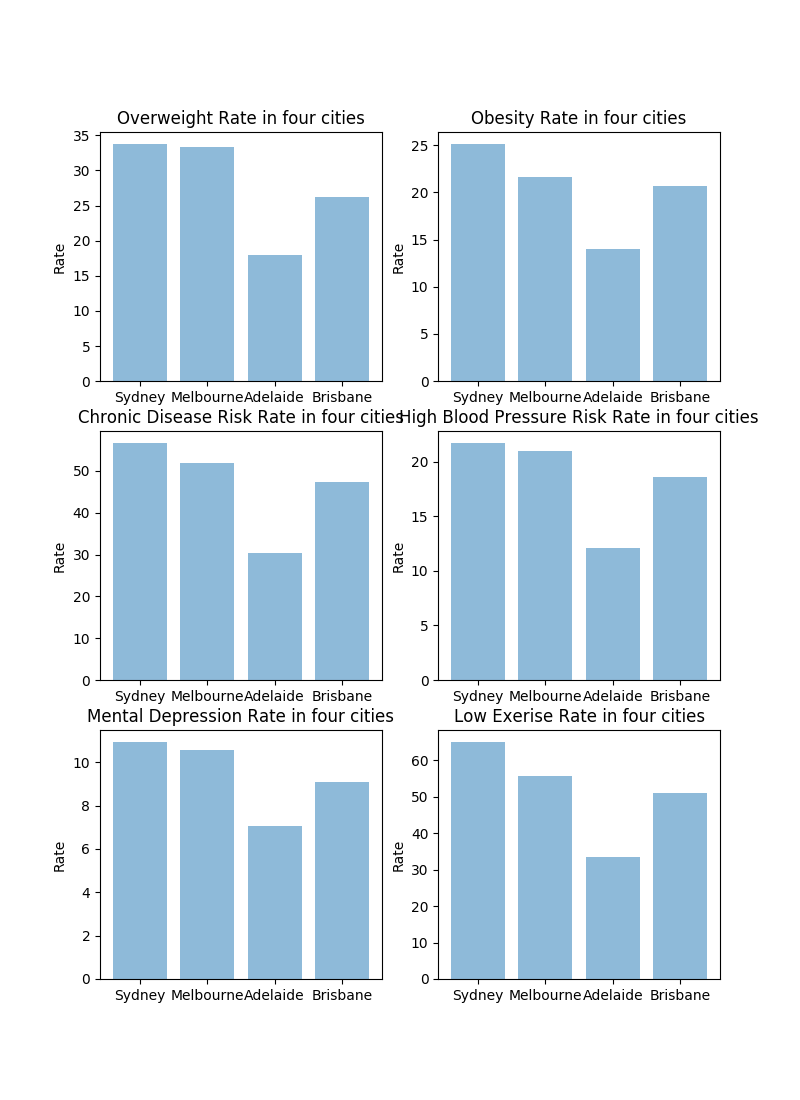
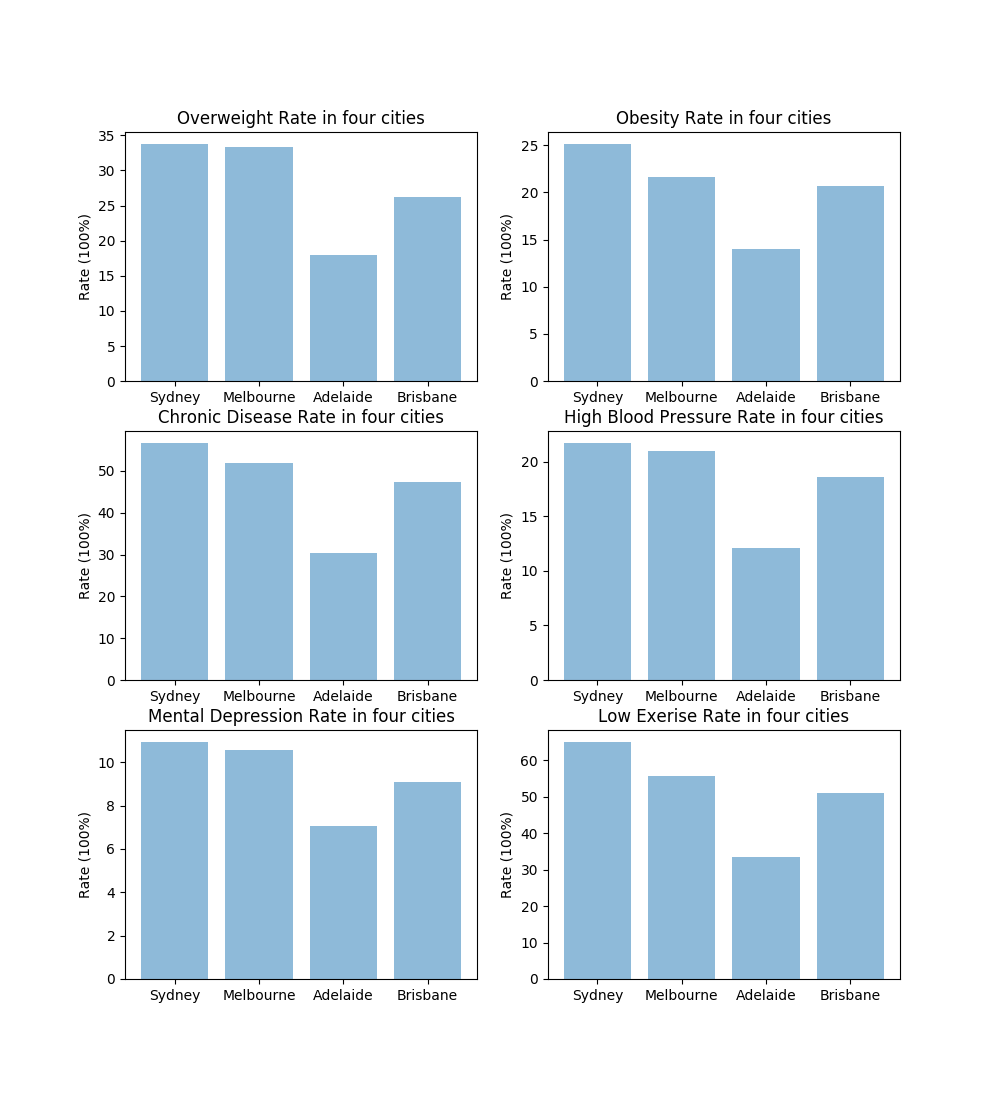
updates
updates

diff --git a/web/ass2.py b/web/ass2.py
@@ -5,6 +5,7 @@ import json
 import matplotlib.pyplot as plt
 from flask_httpauth import HTTPBasicAuth
 app = Flask(__name__)
+auth = HTTPBasicAuth()
 user = 'admin'
 passwd = 'admin'
 
@@ -78,18 +79,26 @@ def unauthorized():
     # return 403 instead of 401 to prevent browsers from displaying the default auth dialog
 
 @app.errorhandler(400)
-def not_found(error):
+def bad_request(error):
     return make_response(jsonify({'error': 'Bad request'}), 400)
 
 @app.errorhandler(404)
 def not_found(error):
     return make_response(jsonify({'error': 'Not found'}), 404)
 
+def make_tasks(data):
+    # turn a dictionary into a list of dictionaries so that is can be shown as a json object
+    # and can be obtained by 'curl' command
+    new_tasks = []
+    for key in data:
+        task = {}
+        task['city'] = key
+        task['url'] = "http://127.0.0.1:5984/twitter/api/tasks/" + key
+        task['total_twitter'] = data[key]['total_twitter']
+        new_tasks.append(task)
+    return new_tasks
 
-tasks = []
-for doc in data:
-    doc['url'] = "http://127.0.0.1:5984/twitter/api/tasks/" + doc['city']
-    tasks.append(doc)
+tasks = make_tasks(data)
 
 # get all twitters
 @app.route('/twitter/api/tasks', methods=['GET'])
@@ -118,6 +127,7 @@ def create_task():
         abort(400)
     task = {
         'city': request.json['city'],
+        'url': "http://127.0.0.1:5984/twitter/api/tasks/" + request.json['city'],
         'total_twitter': request.json.get('total_twitter', ""),
     }
     tasks.append(task)
@@ -130,16 +140,16 @@ def create_task():
 def update_task(task_id):
     task = -1
     for i in range(len(tasks)):
-        if task_id == tasks[i]['key']:
+        if task_id == tasks[i]['city']:
             task = i
             break
     if task == -1:
         abort(404)
     if not request.json:
         abort(400)
-    if 'city' in request.json and type(request.json['city']) != unicode:
+    if 'city' in request.json and type(request.json['city']) != str:
         abort(400)
-    if 'total_twitter' in request.json and type(request.json['total_twitter']) is not unicode:
+    if 'total_twitter' in request.json and type(request.json['total_twitter']) != int:
         abort(400)
     tasks[task]['city'] = request.json.get('city', tasks[task]['city'])
     tasks[task]['total_twitter'] = request.json.get(
@@ -161,6 +171,206 @@ def delete_task(task_id):
     # db.delete(tasks[task])
     return jsonify({'result': True})
 
+#  ------------------- API for grabing aurin data ------------------
+def make_analysis_tasks(data):
+    # turn a dictionary into a list of dictionaries so that is can be shown as a json object
+    # and can be obtained by 'curl' command
+    for doc in data:
+        doc.pop('_rev')
+        doc['_id'] = doc['_id'].replace(' ', '_')
+        doc['url'] = "http://127.0.0.1:5984/twitter/api/aurin_tasks/" + doc['_id']
+    return data
+
+# locate to certain database
+db_aurin = couch['aurin']
+
+# all docs including views
+rows_aurin = db_aurin.view('_all_docs', include_docs=True)
+
+# transfer couchdb object to a list, each list contains a dictionary
+raw_data_aurin = [row['doc'] for row in rows_aurin]
+tasks_aurin = make_analysis_tasks(raw_data_aurin)
+
+# get all aurin data
+@app.route('/twitter/api/aurin_tasks', methods=['GET'])
+@auth.login_required
+def get_aurin_tasks():
+    return jsonify({'tasks': tasks_aurin})
+
+@app.route('/twitter/api/aurin_tasks/<string:task_id>', methods=['GET'])
+@auth.login_required
+def get_aurin_task(task_id):
+    task = -1
+    for i in range(len(tasks_aurin)):
+        if task_id == tasks_aurin[i]['_id']:
+            task = i
+            break
+    if task == -1:
+        abort(404)
+    return jsonify({'task': tasks_aurin[task]})
+
+
+@app.route('/twitter/api/aurin_tasks', methods=['POST'])
+@auth.login_required
+def create_aurin_task():
+    if not request.json or not '_id' in request.json:
+        abort(400)
+    task = {
+        '_id': request.json['_id'].replace(' ', '_'),
+        'url': "http://127.0.0.1:5984/twitter/api/aurin_tasks/" + request.json['_id'].replace(' ', '_'),
+        'Sydney': request.json.get('Sydney', ""),
+        'Melbourne': request.json.get('Melbourne', ""),
+        'Brisbane': request.json.get('Brisbane', ""),
+        'Adelaide': request.json.get('Adelaide', ""),
+    }
+    tasks_aurin.append(task)
+    # db.save(task)
+    return jsonify({'task': tasks_aurin}), 201
+
+
+@app.route('/twitter/api/aurin_tasks/<string:task_id>', methods=['PUT'])
+@auth.login_required
+def update_aurin_task(task_id):
+    task = -1
+    for i in range(len(tasks_aurin)):
+        if task_id == tasks_aurin[i]['_id']:
+            task = i
+            break
+    if task == -1:
+        abort(404)
+    if not request.json:
+        abort(400)
+    if '_id' in request.json and type(request.json['_id']) != str:
+        abort(400)
+    if 'Sydney' in request.json and type(request.json['Sydney']) != float:
+        abort(400)
+    if 'Melbourne' in request.json and type(request.json['Melbourne']) != float:
+        abort(400)
+    if 'Brisbane' in request.json and type(request.json['Brisbane']) != float:
+        abort(400)
+    if 'Adelaide' in request.json and type(request.json['Adelaide']) != float:
+        abort(400)                
+    tasks_aurin[task]['_id'] = request.json.get('_id', tasks_aurin[task]['_id']).replace(' ', '_')
+    tasks_aurin[task]['Sydney'] = request.json.get('Sydney', tasks_aurin[task]['Sydney'])
+    tasks_aurin[task]['Melbourne'] = request.json.get('Melbourne', tasks_aurin[task]['Melbourne'])   
+    tasks_aurin[task]['Brisbane'] = request.json.get('Brisbane', tasks_aurin[task]['Brisbane'])
+    tasks_aurin[task]['Adelaide'] = request.json.get('Adelaide', tasks_aurin[task]['Adelaide'])                    
+    return jsonify({'task': tasks_aurin[task]})
+
+
+@app.route('/twitter/api/aurin_tasks/<string:task_id>', methods=['DELETE'])
+@auth.login_required
+def delete_aurin_task(task_id):
+    task = -1
+    for i in range(len(tasks_aurin)):
+        if task_id == tasks_aurin[i]['_id']:
+            task = i
+            break
+    if task == -1:
+        abort(404)
+    tasks_aurin.remove(tasks_aurin[task])
+    # db.delete(tasks[task])
+    return jsonify({'result': True})
+
+#  ------------------- API for grabing correlation results------------------
+# locate to certain database
+db_analysis = couch['analysis_result']
+
+# all docs including views
+rows_analysis = db_analysis.view('_all_docs', include_docs=True)
+
+# transfer couchdb object to a list, each list contains a dictionary
+raw_data_analysis = [row['doc'] for row in rows_analysis]
+tasks_analysis = make_analysis_tasks(raw_data_analysis)
+
+# get all aurin data
+@app.route('/twitter/api/analysis_tasks', methods=['GET'])
+@auth.login_required
+def get_analysis_tasks():
+    return jsonify({'tasks': tasks_analysis})
+
+@app.route('/twitter/api/analysis_tasks/<string:task_id>', methods=['GET'])
+@auth.login_required
+def get_analysis_task(task_id):
+    task = -1
+    for i in range(len(tasks_analysis)):
+        if task_id == tasks_analysis[i]['_id']:
+            task = i
+            break
+    if task == -1:
+        abort(404)
+    return jsonify({'task': tasks_analysis[task]})
+
+
+@app.route('/twitter/api/analysis_tasks', methods=['POST'])
+@auth.login_required
+def create_analysis_task():
+    if not request.json or not '_id' in request.json:
+        abort(400)
+    task = {
+        '_id': request.json['_id'].replace(' ', '_'),
+        'url': "http://127.0.0.1:5984/twitter/api/analysis_tasks/" + request.json['_id'].replace(' ', '_'),
+        'chronic disease risk': request.json.get('chronic disease risk', ""),
+        'high blood pressure risk': request.json.get('high blood pressure risk', ""),
+        'low exerise': request.json.get('low exerise', ""),
+        'mental depression': request.json.get('mental depression', ""),
+        'obesity': request.json.get('obesity', ""),
+        'overweight': request.json.get('overweight', ""),
+    }
+    tasks_analysis.append(task)
+    # db.save(task)
+    return jsonify({'task': tasks_analysis}), 201
+
+
+@app.route('/twitter/api/analysis_tasks/<string:task_id>', methods=['PUT'])
+@auth.login_required
+def update_analysis_task(task_id):
+    task = -1
+    for i in range(len(tasks_analysis)):
+        if task_id == tasks_analysis[i]['_id']:
+            task = i
+            break
+    if task == -1:
+        abort(404)
+    if not request.json:
+        abort(400)
+    if '_id' in request.json and type(request.json['_id']) != str:
+        abort(400)
+    if 'chronic disease risk' in request.json and type(request.json['chronic disease risk']) != float:
+        abort(400)
+    if 'high blood pressure risk' in request.json and type(request.json['high blood pressure risk']) != float:
+        abort(400)
+    if 'low exerise' in request.json and type(request.json['low exerise']) != float:
+        abort(400)
+    if 'mental depression' in request.json and type(request.json['mental depression']) != float:
+        abort(400)  
+    if 'obesity' in request.json and type(request.json['obesity']) != float:
+        abort(400)  
+    if 'overweight' in request.json and type(request.json['overweight']) != float:
+        abort(400)                                
+    tasks_analysis[task]['_id'] = request.json.get('_id', tasks_analysis[task]['_id']).replace(' ', '_')
+    tasks_analysis[task]['chronic disease risk'] = request.json.get('chronic disease risk', tasks_analysis[task]['chronic disease risk'])
+    tasks_analysis[task]['high blood pressure risk'] = request.json.get('high blood pressure risk', tasks_analysis[task]['high blood pressure risk'])   
+    tasks_analysis[task]['low exerise'] = request.json.get('low exerise', tasks_analysis[task]['low exerise'])
+    tasks_analysis[task]['mental depression'] = request.json.get('mental depression', tasks_analysis[task]['mental depression'])  
+    tasks_analysis[task]['obesity'] = request.json.get('obesity', tasks_analysis[task]['obesity'])    
+    tasks_analysis[task]['overweight'] = request.json.get('overweight', tasks_analysis[task]['overweight'])                              
+    return jsonify({'task': tasks_analysis[task]})
+
+
+@app.route('/twitter/api/analysis_tasks/<string:task_id>', methods=['DELETE'])
+@auth.login_required
+def delete_analysis_task(task_id):
+    task = -1
+    for i in range(len(tasks_analysis)):
+        if task_id == tasks_analysis[i]['_id']:
+            task = i
+            break
+    if task == -1:
+        abort(404)
+    tasks_analysis.remove(tasks_analysis[task])
+    # db.delete(tasks[task])
+    return jsonify({'result': True})
 
 if __name__ == '__main__':
 	app.run(debug=True)

diff --git a/twitter_analysis/correlationAnalysis.py b/twitter_analysis/correlationAnalysis.py
@@ -172,7 +172,7 @@ except:
     print("already exists")
 
 # correlation bar chart
-objects = ('overweight', 'obesity', 'chronic disease risk', 'high blood pressure risk', 
+objects = ('overweight', 'obesity', 'chronic disease', 'hi blood pressure', 
     'mental depression', 'low exerise')
 
 y_pos = np.arange(len(objects))
@@ -181,17 +181,17 @@ performance_50 = [corr50['overweight'],corr50['obesity'],corr50['chronic disease
 performance_100 = [corr100['overweight'],corr100['obesity'],corr100['chronic disease risk'],
     corr100['high blood pressure risk'],corr100['mental depression'],corr100['low exerise']]
 
-plt.figure(figsize=(8,11))
+plt.figure(figsize=(12,10))
 
 plt.subplot(1, 2, 1)
 plt.bar(y_pos, performance_50, align='center', alpha=0.5)
-plt.xticks(y_pos, objects)
+plt.xticks(y_pos, objects, rotation = 45)
 plt.ylabel('correlation rate')
 plt.title('Correlation with food_50')
 
 plt.subplot(1, 2, 2)
 plt.bar(y_pos, performance_100, align='center', alpha=0.5)
-plt.xticks(y_pos, objects)
+plt.xticks(y_pos, objects, rotation = 45)
 plt.ylabel('correlation rate')
 plt.title('Correlation with food_100')
 
@@ -201,7 +201,7 @@ plt.savefig('correlation_bar.png')
 objects=['Sydney','Melbourne','Adelaide','Brisbane']
 y_pos = np.arange(len(objects))
 
-plt.figure(figsize=(8,11))
+plt.figure(figsize=(10,11))
 
 plt.subplot(3, 2, 1)
 plt.bar(y_pos, overweight, align='center', alpha=0.5)
@@ -219,13 +219,13 @@ plt.subplot(3, 2, 3)
 plt.bar(y_pos, chronic_disease_risk, align='center', alpha=0.5)
 plt.xticks(y_pos, objects)
 plt.ylabel('Rate (100%)')
-plt.title('Chronic Disease Risk Rate in four cities')
+plt.title('Chronic Disease Rate in four cities')
 
 plt.subplot(3, 2, 4)
 plt.bar(y_pos, hi_blood_pressure_risk, align='center', alpha=0.5)
 plt.xticks(y_pos, objects)
 plt.ylabel('Rate (100%)')
-plt.title('High Blood Pressure Risk Rate in four cities')
+plt.title('High Blood Pressure Rate in four cities')
 
 plt.subplot(3, 2, 5)
 plt.bar(y_pos, psy_distress, align='center', alpha=0.5)
@@ -259,8 +259,9 @@ def data_plot(aurin_raw_data, city_list):
 plot_aurin_plot = data_plot(aurin_raw_data, city_list)
 topics = list(plot_aurin_plot.keys())
 
+fog_labels = ('obesity', 'chronic disease', 'high blood pressure', 'low exerise',
+    'mental depression',  'overweight')
 colors = ['red', 'green', 'blue', 'orange']
-
 fig, ax = plt.subplots()
 for i in range(len(city_list)):
     for topic in topics:
@@ -269,6 +270,7 @@ for i in range(len(city_list)):
             ax.scatter(topic, y, c=colors[i], label=city_list[i], alpha=0.3, edgecolors='none')
         else:
             ax.scatter(topic, y, c=colors[i], alpha=0.3, edgecolors='none')
-
+ax.set_xticklabels(fog_labels, rotation = 10)
+ax.set_ylabel("ratio(100%)")
 plt.legend()
 plt.savefig('aurin.png')
